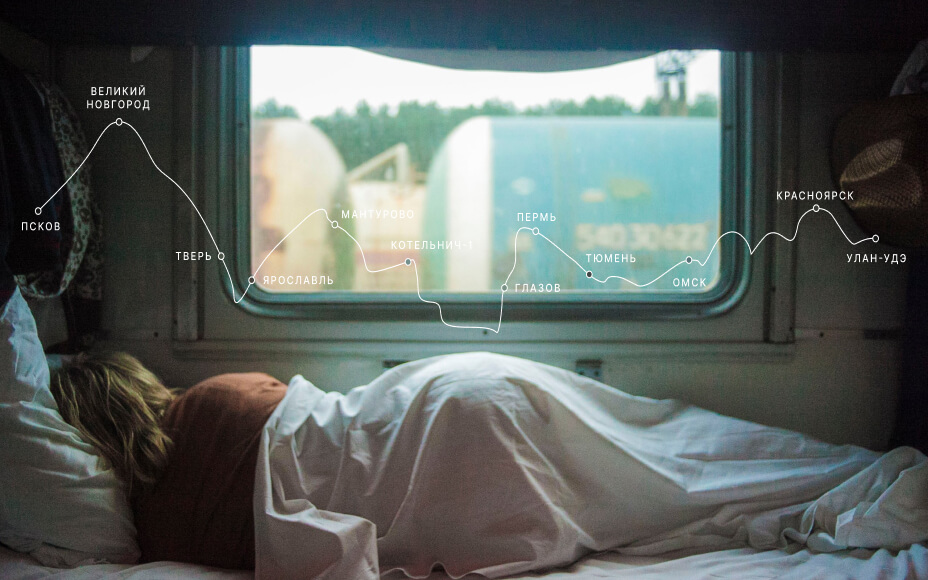
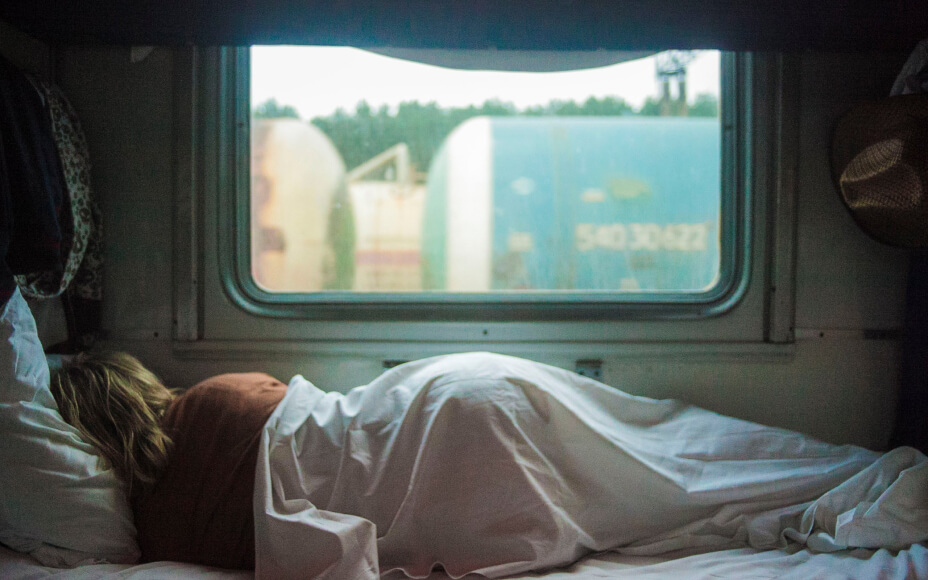
Сверстал блок lead, добавил из макета и подключил оптимизированные изображения с высокой плотностью пикселей

diff --git a/blocks/lead/__image/lead__image.css b/blocks/lead/__image/lead__image.css
@@ -1,0 +1,57 @@
+.lead__image {
+  width: 100%;
+  background-image: url('../../../images/lead/map.svg'), url('../../../images/lead/lead__image_size_mobile.jpg');
+  background-size: 96%, cover;
+  background-position: top 25% left 40%, bottom center;
+  background-repeat: no-repeat, no-repeat;
+  padding-bottom: 62.5%;
+}
+
+@media (min-resolution: 2dppx) {
+  .lead__image {
+    background-image: url('../../../images/lead/map.svg'), url('../../../images/lead/lead__image_size_mobile@2x.jpg');
+  }
+}
+
+@media screen and (min-width: 768px) {
+  .lead__image {
+    background-image: url('../../../images/lead/map.svg'), url('../../../images/lead/lead__image_size_tablet.jpg');
+    background-position: top 25% left 55%, bottom center;
+  }
+
+  @media (min-resolution: 2dppx) {
+    .lead__image {
+      background-image: url('../../../images/lead/map.svg'), url('../../../images/lead/lead__image_size_tablet@2x.jpg');
+    }
+  }
+}
+
+@media screen and (min-width: 1024px) {
+  .lead__image {
+    width: 928px;
+    height: 580px;
+    background-image: url('../../../images/lead/map.svg'), url('../../../images/lead/lead__image_size_laptop.jpg');
+    padding-bottom: 0;
+    margin: 0 auto;
+  }
+
+  @media (min-resolution: 2dppx) {
+    .lead__image {
+      background-image: url('../../../images/lead/map.svg'), url('../../../images/lead/lead__image_size_laptop@2x.jpg');
+    }
+  }
+}
+
+@media screen and (min-width: 1280px) {
+  .lead__image {
+    width: 984px;
+    height: 615px;
+    background-image: url('../../../images/lead/map.svg'), url('../../../images/lead/lead__image_size_desktop.jpg');
+  }
+
+  @media (min-resolution: 2dppx) {
+    .lead__image {
+      background-image: url('../../../images/lead/map.svg'), url('../../../images/lead/lead__image_size_desktop@2x.jpg');
+    }
+  }
+}

diff --git a/index.html b/index.html
@@ -19,7 +19,17 @@
     </div> 
   </header>
 
-  <main class="content"></main>
+  <main class="content">
+
+    <section class="lead">
+      <h1 class="lead__title">Путешествия<br> по России</h1>
+      <p class="lead__subtitle">Настоящая страна не в выпусках<br> новостей, а&nbsp;здесь.</p>
+      <!-- <img class="lead__image" src="./images/lead/lead__image_size_mobile.jpg" alt="Человек лежащий на богу в вагоне поезда на фоне окна"> -->
+      <div class="lead__image"></div>
+      <p class="lead__caption">ваша полка — верхняя</p>
+    </section>
+
+  </main>
 
   <footer class="footer">
     <nav class="footer__links">

diff --git a/pages/index.css b/pages/index.css
@@ -11,6 +11,12 @@
 
 @import url("../blocks/content/content.css");
 
+@import url("../blocks/lead/lead.css");
+@import url("../blocks/lead/__title/lead__title.css");
+@import url("../blocks/lead/__subtitle/lead__subtitle.css");
+@import url("../blocks/lead/__image/lead__image.css");
+@import url("../blocks/lead/__caption/lead__caption.css");
+
 @import url("../blocks/footer/footer.css");
 @import url("../blocks/footer/__links/footer__links.css");
 @import url("../blocks/footer/__link/footer__link.css");

diff --git a/blocks/page/page.css b/blocks/page/page.css
@@ -19,16 +19,10 @@
 
 @media screen and (min-width: 1024px) {
   .page {
-    grid-template-columns: minmax(48px, 1fr) minmax(928px, 1183px) minmax(48px, 1fr);
+    grid-template-columns: minmax(48px, 1fr) minmax(928px, 1184px) minmax(48px, 1fr);
     grid-template-areas: 
     ". header ."
     ". content ."
     ". footer .";
   }
 }
-
-/* @media screen and (min-width: 1280px) {
-  .page {
-    grid-template-columns: 1fr 1184px 1fr;
-  }
-} */

diff --git a/blocks/lead/__caption/lead__caption.css b/blocks/lead/__caption/lead__caption.css
@@ -1,0 +1,21 @@
+.lead__caption {
+  align-self: flex-start;
+  font-weight: 400;
+  font-size: 10px;
+  line-height: 1.4;
+  letter-spacing: 1.5px;
+  text-transform: uppercase;
+  margin: 8px 0 0 16px;
+}
+
+@media screen and (min-width: 768px) {
+  .lead__caption {
+    margin-left: 24px;
+  }
+}
+
+@media screen and (min-width: 952px) {
+  .lead__caption {
+    margin-left: 0;
+  }
+}

diff --git a/blocks/lead/__subtitle/lead__subtitle.css b/blocks/lead/__subtitle/lead__subtitle.css
@@ -1,0 +1,21 @@
+.lead__subtitle {
+  font-weight: 400;
+  font-size: 16px;
+  line-height: 1.3;
+  text-align: center;
+  margin: 0 0 40px;
+}
+
+@media screen and (min-width: 768px) {
+  .lead__subtitle {
+    font-size: 30px;
+    line-height: 36px;
+    margin-bottom: 56px;
+  }
+}
+
+@media screen and (min-width: 1280px) {
+  .lead__subtitle {
+    margin-bottom: 64px;
+  }
+}

diff --git a/blocks/lead/lead.css b/blocks/lead/lead.css
@@ -1,0 +1,20 @@
+.lead {
+  width: 100%;
+  display: flex;
+  flex-direction: column;
+  align-items: center;
+  padding-top: 48px;
+}
+
+@media screen and (min-width: 768px) {
+  .lead {
+    max-width: 928px;
+  }
+}
+
+@media screen and (min-width: 1280px) {
+  .lead {
+    max-width: 984px;
+    padding-top: 56px;
+  }
+}

diff --git a/blocks/lead/__title/lead__title.css b/blocks/lead/__title/lead__title.css
@@ -1,0 +1,15 @@
+.lead__title {
+  font-weight: 900;
+  font-size: 40px;
+  line-height: 1.1;
+  text-align: center;
+  margin: 0 0 16px;
+}
+
+@media screen and (min-width: 768px) {
+  .lead__title {
+    font-size: 96px;
+    line-height: 1;
+    margin-bottom: 32px;
+  }
+}

diff --git a/blocks/content/content.css b/blocks/content/content.css
@@ -1,3 +1,6 @@
 .content {
   grid-area: content;
+  display: flex;
+  flex-direction: column;
+  align-items: center;
 }
